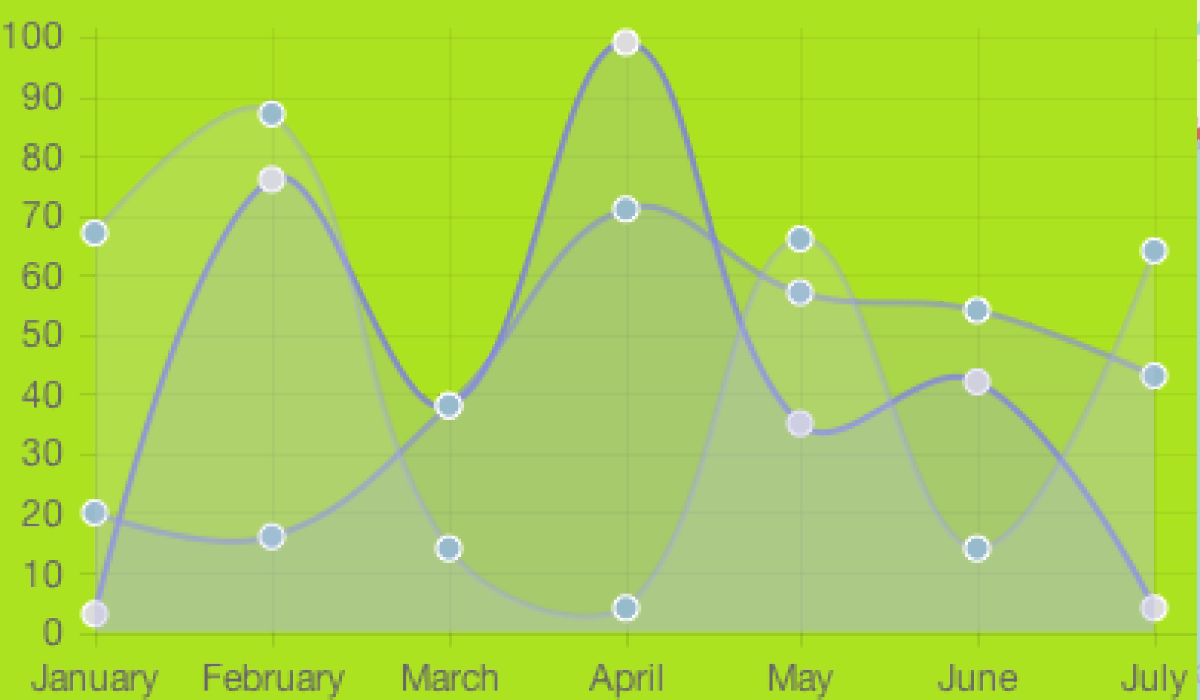
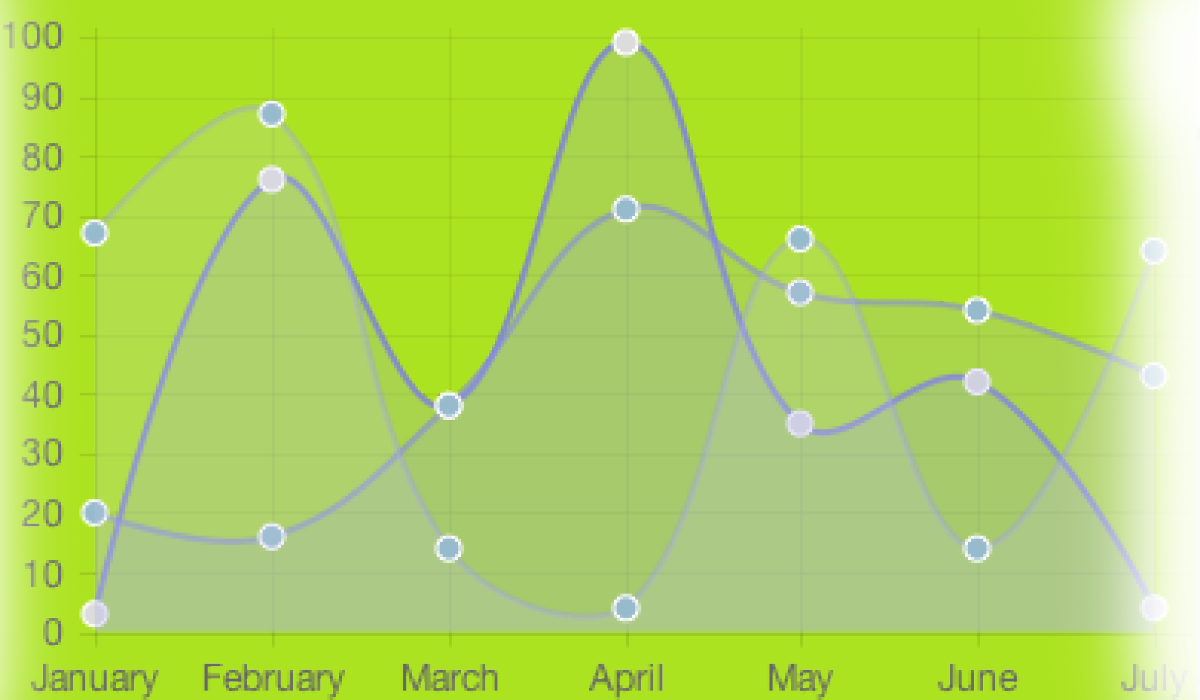
Added 4th carousel slide and headline for timeline; Added background color to timeline hero box;

Changed region(s): [[0.8633, 0.0, 1.0, 1.0], [0.0, 0.0, 0.0617, 1.0]]

diff --git a/index.html b/index.html
@@ -133,7 +133,7 @@
         </div>
         <!-- /.container -->
     </nav>
-    
+        
 
     <!-- Intro Header -->
     <header class="intro">
@@ -145,6 +145,8 @@
     <li data-target="#carousel-example-generic" data-slide-to="0" class="active"></li>
     <li data-target="#carousel-example-generic" data-slide-to="1"></li>
     <li data-target="#carousel-example-generic" data-slide-to="2"></li>
+    <li data-target="#carousel-example-generic" data-slide-to="3"></li>
+
   </ol>
 
   <!-- Wrapper for slides -->
@@ -172,6 +174,21 @@
               Deeper Insights Into FDA Recalls.<br>
             </h1>
             <h3>The more often a word appears in your search, the bigger it gets.</h3>
+            <div class="intro-stats">
+                <h2>8,019</h2>
+                2015 TOTAL RECALLS TO DATE </div>
+            <a href="#searchFDA" class="btn btn-default page-scroll">Search</a>
+          </div>
+      </div>
+    </div>
+    <div class="map-timeline item">
+      <img src="img/new_timeline_for_hero_box_1200x700.png" alt="Word Cloud">
+      <div class="carousel-caption">
+          <div class="container">
+            <h1>Our Timeline Tool Moves <br>
+              Mountains of Historical Data.<br>
+            </h1>
+            <h3>See the most relevant recall data since 2012.</h3>
             <div class="intro-stats">
                 <h2>8,019</h2>
                 2015 TOTAL RECALLS TO DATE </div>
@@ -221,7 +238,7 @@
                             <i class="fa fa-arrow-circle-down animated"></i>
                         </a>
                       
-                    </div>
+                  </div>
                     
                     <div class="section-caption">
                       <h1>&nbsp;</h1>
@@ -257,8 +274,31 @@
                             <i class="fa fa-arrow-circle-down animated"></i>
                         </a>
     </section>
+    
+     <section id="about" class="container content-section text-center">
+        <div class="row">
+                <div class="col-lg-5 col-sm-6">
+                    <hr class="section-heading-spacer">
+                    <div class="clearfix"></div>
+                    <iframe width="420" height="322" src="https://www.youtube.com/embed/aoxRV3yygl0" frameborder="0" allowfullscreen></iframe>
+                    <hr class="section-heading-spacer">
+                </div>
+                <div class="col-lg-5 col-lg-offset-2 col-sm-6">
+                    <hr class="section-heading-spacer">
+                    <a class="twitter-timeline" href="https://twitter.com/FDAfood" data-widget-id="611978389986115584" data-chrome="nofooter noborders noscrollbar transparent" width="725" height="322">
+                            Tweets by @FDAfood
+                    </a>
+                    <script>!function(d,s,id){var js,fjs=d.getElementsByTagName(s)[0],p=/^http:/.test(d.location)?'http':'https';if(!d.getElementById(id)){js=d.createElement(s);js.id=id;js.src=p+"://platform.twitter.com/widgets.js";fjs.parentNode.insertBefore(js,fjs);}}(document,"script","twitter-wjs");</script>
+                    <hr class="section-heading-spacer">
+                 </div>
+         </div>
+                        
+                        <a href="#searchFDA" class="btn btn-circle page-scroll">
+                            <i class="fa fa-arrow-circle-down animated"></i>
+                        </a>
+    </section>
 
-    <!-- Download Section -->
+<!-- Download Section -->
     <section id="download" class="content-section text-center">
         <div id="searchFDA" class="download-section">
             <div class="container">

diff --git a/css/foodwise.css b/css/foodwise.css
@@ -252,6 +252,11 @@ a:focus {
 	.map-wordcloud {
     	background-color: rgba(254,211,91, 1);
 	}
+	
+	.map-timeline  {
+		background-color: rgba(172,227,32, 1);
+	}
+
 
 	.map-geo {
     	background-color: rgba(173,215,215, 1);
@@ -271,12 +276,10 @@ a:focus {
 	}
 	
 	.section-caption {
-    	background-color: rgba(0,0,0,.8);
-    	right: 0;
-    	left: 0;
-    	bottom: 0;
+    	margin-top: .3em;
+		margin-left: 10px;
     	text-align: left;
-    	padding: 4em 0;
+    	padding: 2em 0;
 	}
 
 	.carousel-caption h2 {
